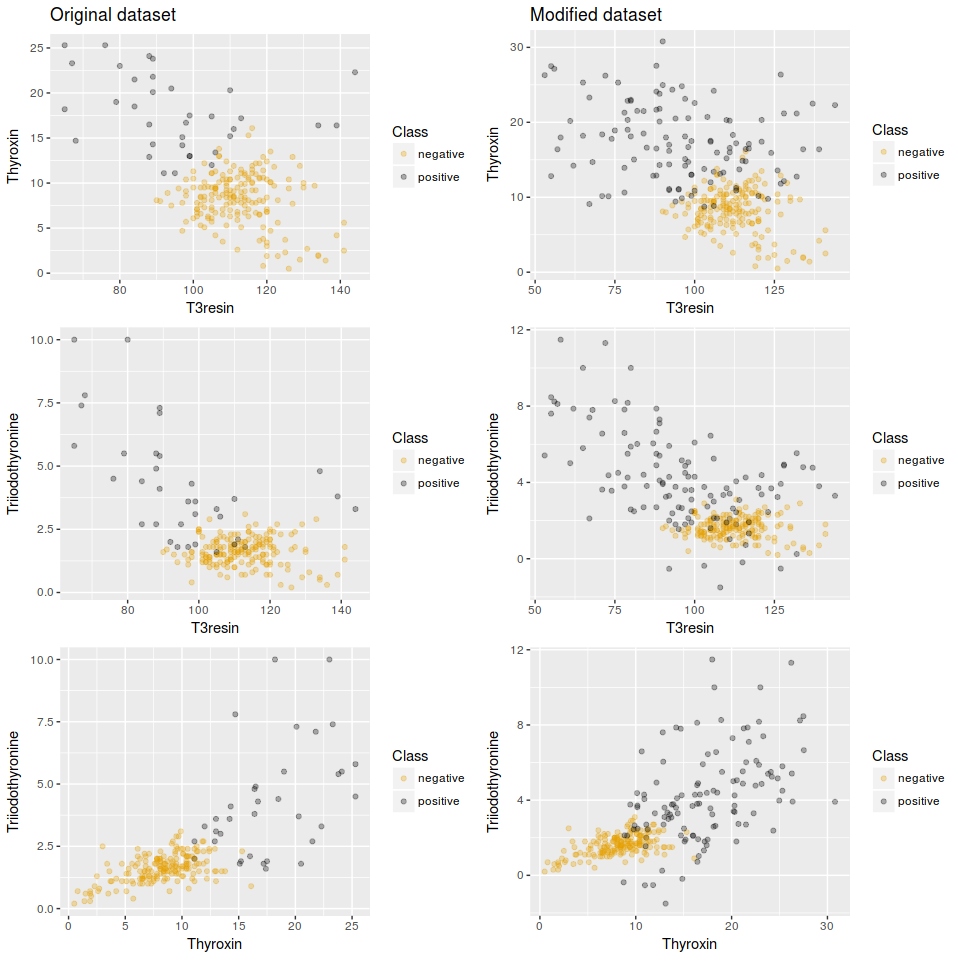
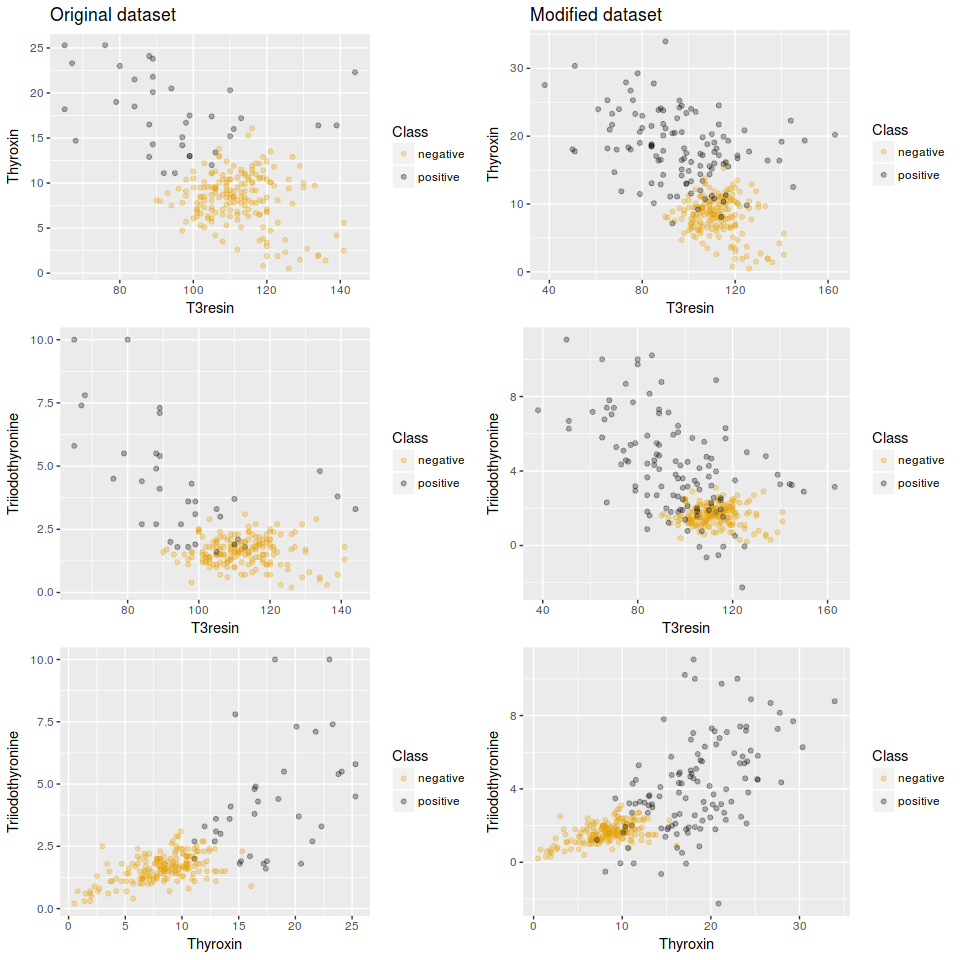
Almost finished vignette

diff --git a/README.md b/README.md
@@ -39,7 +39,7 @@ After filtering examples with `neater`:
 
 ``` r
 filteredSamples <- neater(newthyroid1, newSamples, iterations = 500)
-#> [1] "22 samples filtered by NEATER"
+#> [1] "17 samples filtered by NEATER"
 filteredNewDataset <- rbind(newthyroid1, filteredSamples)
 plotComparison(newthyroid1, filteredNewDataset, attrs = names(newthyroid1)[1:3])
 ```
